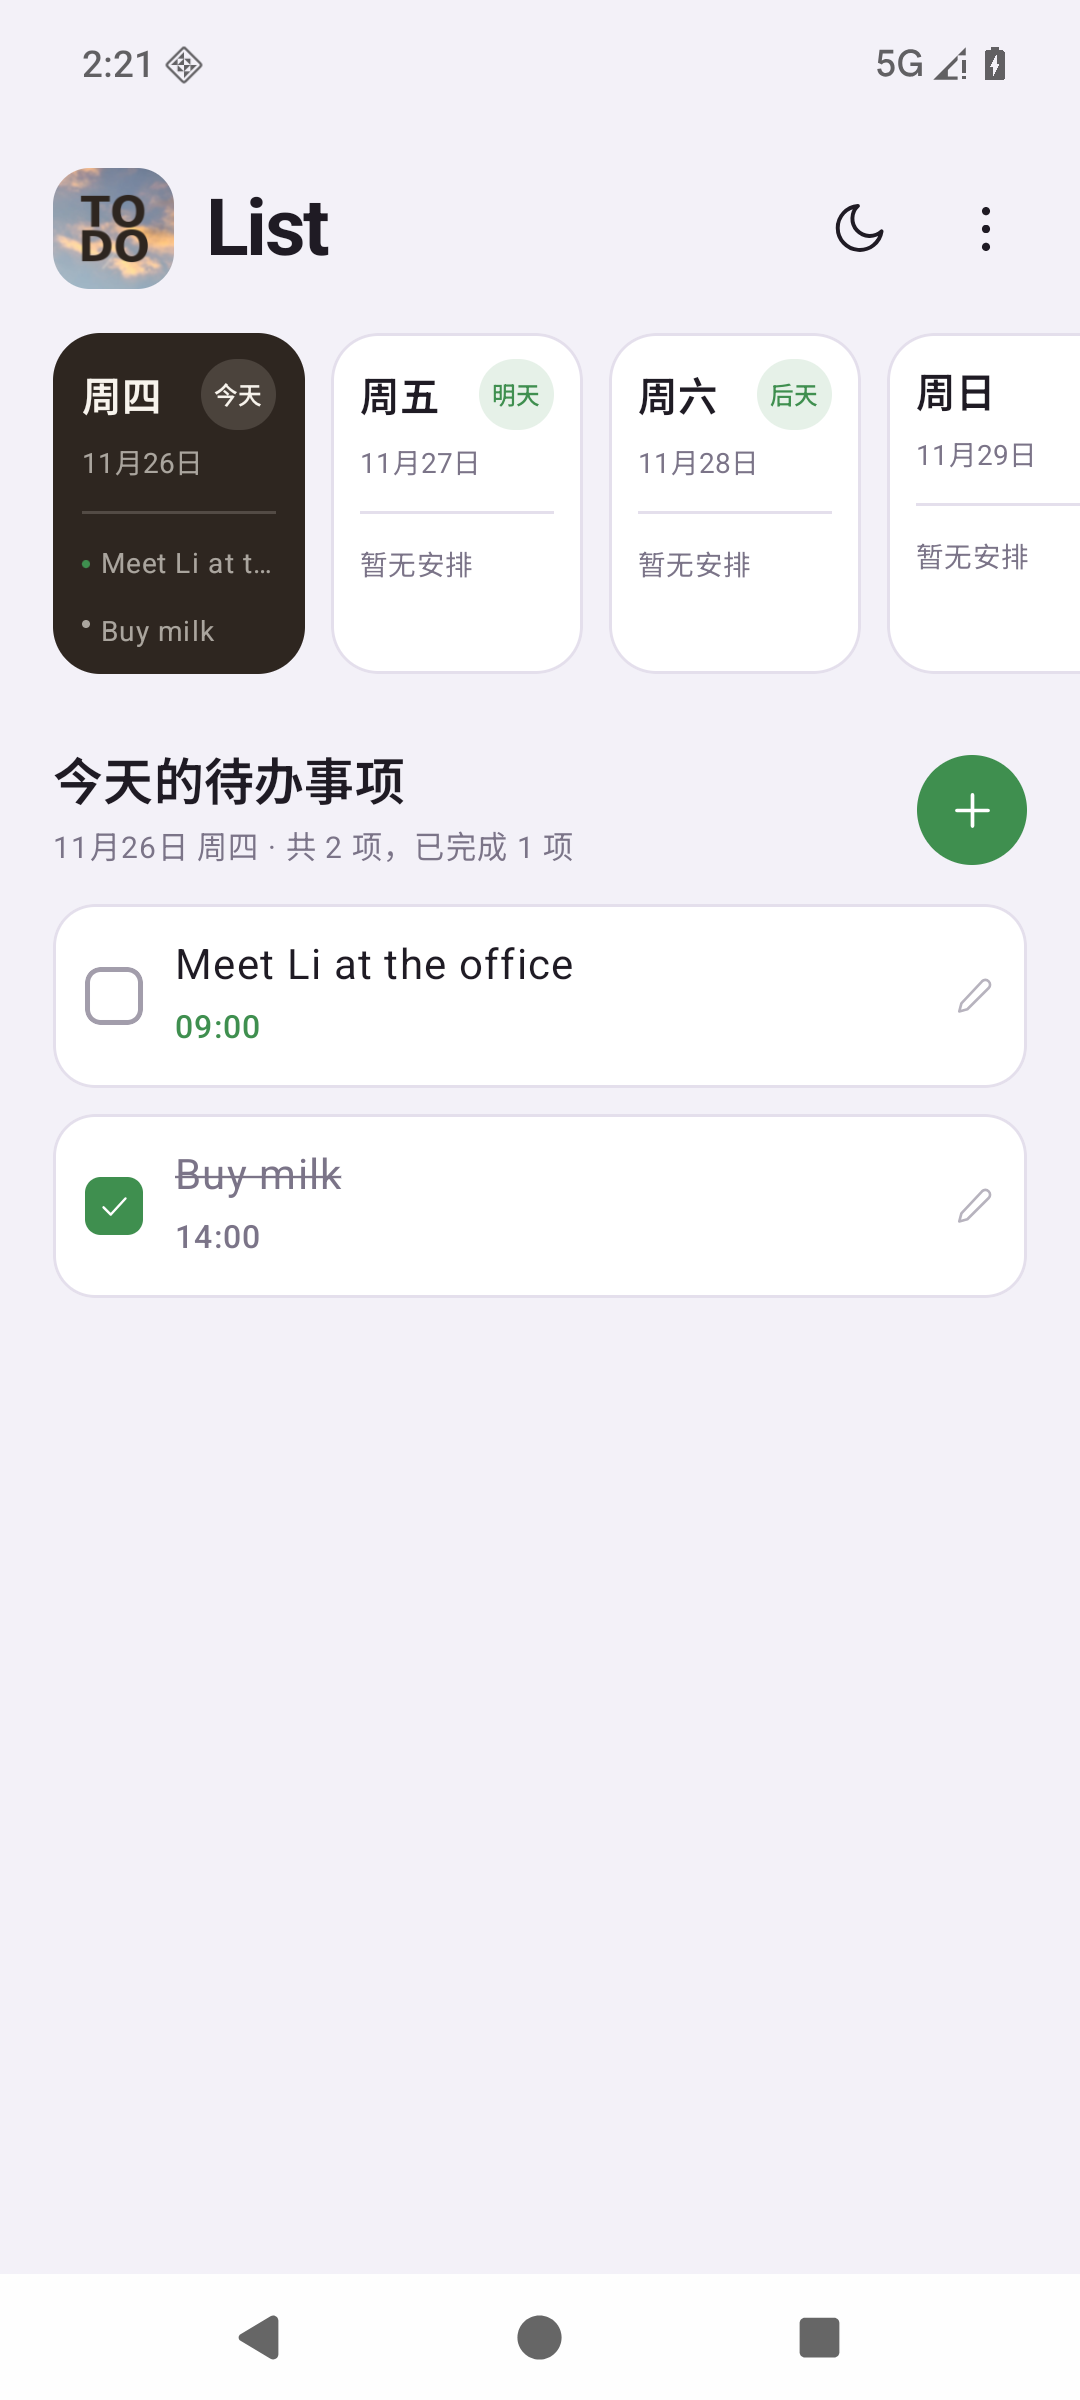
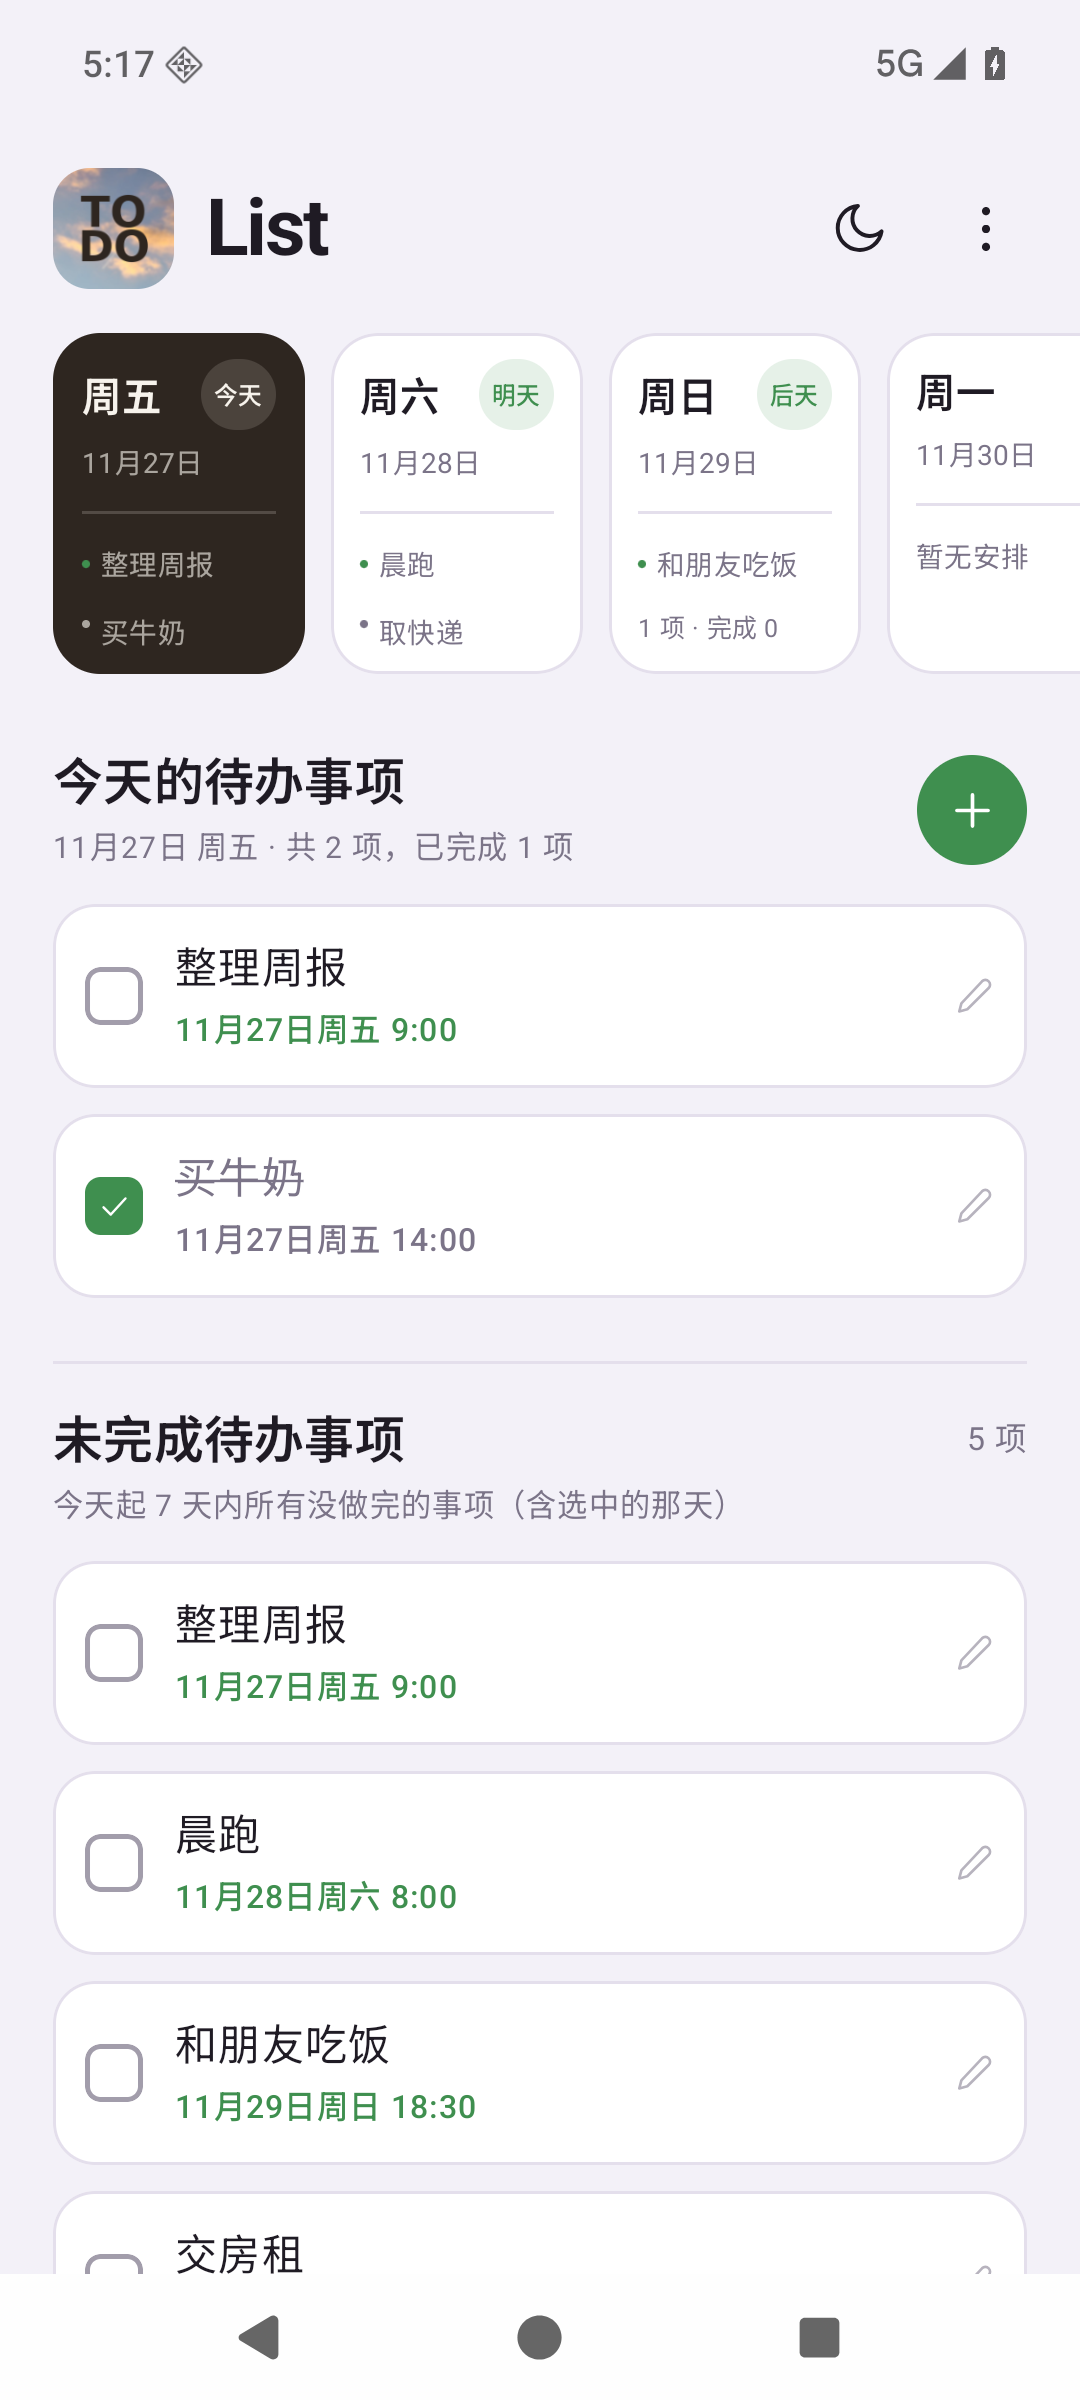
feat: 事项显示日期+星期，新增「未完成待办事项」汇总（v1.2）

diff --git a/app/src/main/java/com/dswork/list/ui/HomeScreen.kt b/app/src/main/java/com/dswork/list/ui/HomeScreen.kt
@@ -129,15 +129,42 @@ fun HomeScreen(
             )
 
             val dayTodos = store.itemsFor(selectedDay)
-            if (dayTodos.isEmpty()) {
-                EmptyState(isToday = selectedDay == today)
-            } else {
-                LazyColumn(
-                    modifier = Modifier.fillMaxWidth().weight(1f),
-                    contentPadding = PaddingValues(start = 20.dp, end = 20.dp, top = 4.dp, bottom = 28.dp),
-                    verticalArrangement = Arrangement.spacedBy(10.dp),
-                ) {
-                    items(dayTodos, key = { it.id }) { todo ->
+            val weekUnfinished = store.items
+                .filter { !it.done && it.date in days }
+                .sortedWith(compareBy({ it.date }, { it.minutes }, { it.id }))
+
+            LazyColumn(
+                modifier = Modifier.fillMaxWidth().weight(1f),
+                contentPadding = PaddingValues(start = 20.dp, end = 20.dp, top = 4.dp, bottom = 28.dp),
+                verticalArrangement = Arrangement.spacedBy(10.dp),
+            ) {
+                if (dayTodos.isEmpty()) {
+                    item(key = "selected-empty") {
+                        EmptyState(isToday = selectedDay == today)
+                    }
+                } else {
+                    items(dayTodos, key = { "selected-${it.id}" }) { todo ->
+                        TodoRow(
+                            todo = todo,
+                            onToggle = { store.toggle(todo.id) },
+                            onClick = {
+                                editing = todo
+                                editorOpen = true
+                            },
+                        )
+                    }
+                }
+
+                item(key = "unfinished-header") {
+                    UnfinishedHeader(count = weekUnfinished.size)
+                }
+
+                if (weekUnfinished.isEmpty()) {
+                    item(key = "unfinished-empty") {
+                        UnfinishedEmpty()
+                    }
+                } else {
+                    items(weekUnfinished, key = { "unfinished-${it.id}" }) { todo ->
                         TodoRow(
                             todo = todo,
                             onToggle = { store.toggle(todo.id) },
@@ -480,7 +507,7 @@ private fun TodoRow(todo: Todo, onToggle: () -> Unit, onClick: () -> Unit) {
                     overflow = TextOverflow.Ellipsis,
                 )
                 Text(
-                    text = todo.timeText,
+                    text = todo.dateTimeText,
                     fontSize = 12.sp,
                     color = if (todo.done) palette.textSecondary else palette.accent,
                     fontWeight = FontWeight.Medium,
@@ -500,7 +527,7 @@ private fun TodoRow(todo: Todo, onToggle: () -> Unit, onClick: () -> Unit) {
 private fun EmptyState(isToday: Boolean) {
     val palette = LocalListPalette.current
     Column(
-        modifier = Modifier.fillMaxWidth().padding(top = 48.dp),
+        modifier = Modifier.fillMaxWidth().padding(top = 32.dp, bottom = 8.dp),
         horizontalAlignment = Alignment.CenterHorizontally,
     ) {
         Text(
@@ -515,6 +542,53 @@ private fun EmptyState(isToday: Boolean) {
             color = palette.textSecondary.copy(alpha = 0.75f),
         )
     }
+}
+
+/** 「未完成待办事项」分区标题：汇总今天起 7 天内所有未完成事项。 */
+@Composable
+private fun UnfinishedHeader(count: Int) {
+    val palette = LocalListPalette.current
+    Column(modifier = Modifier.fillMaxWidth().padding(top = 14.dp)) {
+        Box(
+            Modifier
+                .fillMaxWidth()
+                .height(1.dp)
+                .background(palette.border)
+        )
+        Row(
+            modifier = Modifier.fillMaxWidth().padding(top = 14.dp),
+            verticalAlignment = Alignment.CenterVertically,
+        ) {
+            Text(
+                text = "未完成待办事项",
+                fontSize = 19.sp,
+                fontWeight = FontWeight.SemiBold,
+                color = palette.textPrimary,
+            )
+            Spacer(Modifier.weight(1f))
+            Text(
+                text = if (count == 0) "已全部完成" else "$count 项",
+                fontSize = 12.sp,
+                color = palette.textSecondary,
+            )
+        }
+        Text(
+            text = "今天起 7 天内所有没做完的事项（含选中的那天）",
+            fontSize = 11.5.sp,
+            color = palette.textSecondary,
+        )
+    }
+}
+
+@Composable
+private fun UnfinishedEmpty() {
+    val palette = LocalListPalette.current
+    Text(
+        text = "这几天没有未完成的事项",
+        fontSize = 13.sp,
+        color = palette.textSecondary,
+        modifier = Modifier.fillMaxWidth().padding(vertical = 12.dp),
+    )
 }
 
 @Composable

diff --git a/app/src/main/java/com/dswork/list/data/Todo.kt b/app/src/main/java/com/dswork/list/data/Todo.kt
@@ -12,6 +12,10 @@ data class Todo(
 ) {
     val timeText: String
         get() = "%02d:%02d".format(minutes / 60, minutes % 60)
+
+    /** 列表里显示的「日期 + 星期 + 时间」，例如：11月28日周六 8:00 */
+    val dateTimeText: String
+        get() = "${date.monthValue}月${date.dayOfMonth}日${date.weekdayCn()} ${minutes / 60}:%02d".format(minutes % 60)
 }
 
 fun LocalDate.weekdayCn(): String = "周" + "一二三四五六日"[dayOfWeek.value - 1]

diff --git a/README.md b/README.md
@@ -22,21 +22,27 @@
 
 **3. 当天待办事项**
 - 每项前有勾选框，勾选后整条变灰并加删除线；
+- 每条事项都带**完整时间信息**：`11月28日周六 8:00`（几月几号 + 星期 + 小时分钟），跨天也一眼看清；
 - 点击事项可打开编辑弹窗：改文字、改具体时间（小时/分钟，Material3 表盘选择器）、删除整条；
 - 列表严格按时间升序排列；
 - 右上角绿色 `+` 按钮新建事项，默认时间取「下一个整点」，也总是添加到当前选中的那一天；
 - 空列表有占位提示。
 
-**4. 历史日程**
+**4. 未完成待办事项（汇总）**
+- 选中日期的清单下方固定有「未完成待办事项」分区，汇总**今天起 7 天内所有未完成**的事项（含选中那天），按日期 + 时间排序，并显示总条数；
+- 直接在汇总区勾选即可完成，条目会立刻从汇总中移除、源日期里的状态同步更新；
+- 全部做完时显示「这几天没有未完成的事项」。
+
+**5. 历史日程**
 - 三点菜单 → 历史日程，按日期从新到旧归档所有早于今天的安排；
 - 每个日期带「周X + 几月几号」和当天条数，条目显示时间与完成状态（完成的带删除线）；
 - 顶部返回按钮/系统返回键均可回到主界面。
 
-**5. 关于 / 检查更新**
+**6. 关于 / 检查更新**
 - 三点菜单 → 关于：应用图标、版本号、简介、**GitHub 仓库地址**（可点击跳转浏览器）；
 - **检查更新**按钮会读取 GitHub Releases 上最新的 release 版本号：一致时提示「已是最新版本」，有新版时显示版本号并给出「前往下载新版本」入口，网络异常/无发布时给出对应提示。
 
-**6. 数据**
+**7. 数据**
 - 使用 `SharedPreferences + JSON` 本地保存，不联网（只有「检查更新」会访问 GitHub API），无敏感权限，进程被杀后数据仍在。
 
 ## 截图
@@ -80,7 +86,7 @@ python make_icons.py \
 | 构建 | AGP 9.5.3 / Gradle 9.6.0 / JDK 17 字节码 |
 | SDK | compileSdk 37.2、targetSdk 37、minSdk 26（Android 8.0+） |
 | 依赖 | Compose BOM 2026.11.01 + activity-compose + core-ktx（无第三方网络库） |
-| 版本 | versionCode 2 / versionName 1.1 |
+| 版本 | versionCode 3 / versionName 1.2 |
 
 ## 目录结构
 
@@ -117,6 +123,8 @@ APK 见 [Releases](https://github.com/ssyPromax/ToDoList/releases)。
 
 - 启动、深浅色切换、状态栏图标颜色跟随主题；
 - 7 天卡片横向滑动、跨月日期（11/30 → 12/1）正确、点击切换日期；
+- 事项行日期标签（如 `11月28日周六 8:00`）跨天、跨月均正确；
+- 「未完成待办事项」汇总：含选中那天、按日期时间排序、勾选后实时移出并同步源日期状态、计数同步；
 - 新建 / 编辑 / 删除事项，改时间后自动重新排序；
 - 勾选后划掉并更新「已完成」计数；重启进程后数据、主题均保留；
 - 三点菜单、历史日程（过去的安排按日期归档）、关于页与检查更新（GitHub API 返回「无发布 / 已是最新 / 有新版」三种状态均验证）；
